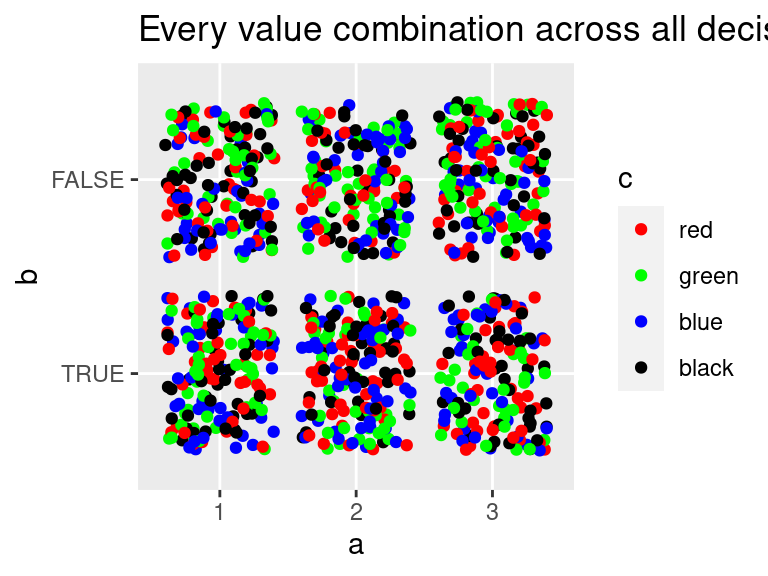
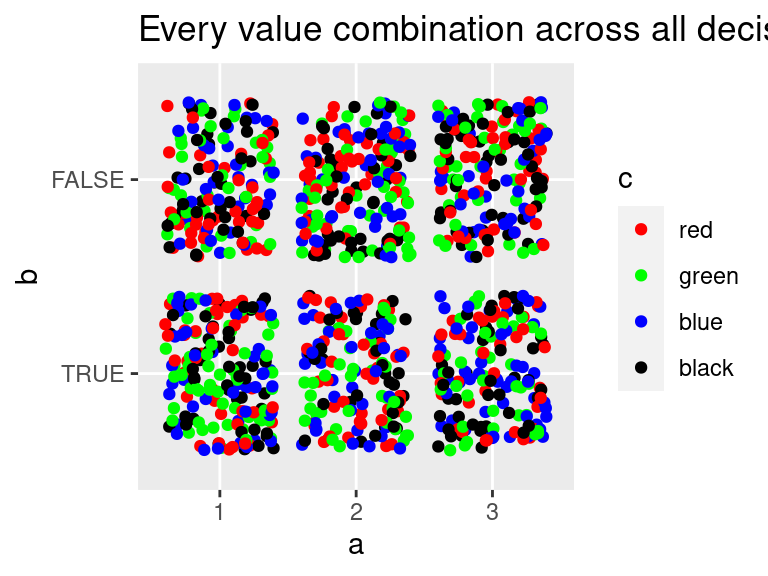
orig theme

Changed region(s): [[0.1875, 0.1562, 0.7188, 0.4688], [0.1875, 0.5, 0.7188, 0.8125]]

diff --git a/content/post/2020-12-18-latin-hypercube-sampling/index.en.html b/content/post/2020-12-18-latin-hypercube-sampling/index.en.html
@@ -55,19 +55,19 @@ names(sample) &lt;- c(&quot;a&quot;, &quot;b&quot;, &quot;c&quot;)
 
 # Uniform random values between 0 and 1
 sample</code></pre>
-<pre><code>##             a          b           c
-## 1  0.86297590 0.87166601 0.642949621
-## 2  0.12298899 0.29223853 0.946490815
-## 3  0.81953516 0.07972020 0.808074911
-## 4  0.31481227 0.36758653 0.143129972
-## 5  0.69663023 0.95135132 0.914242175
-## 6  0.36300372 0.61560262 0.235146709
-## 7  0.20291468 0.50893168 0.000381986
-## 8  0.06833569 0.49722671 0.284080700
-## 9  0.97519387 0.23553237 0.350345747
-## 10 0.50854503 0.76592850 0.716968703
-## 11 0.66236088 0.72236013 0.516816164
-## 12 0.46105454 0.09684975 0.497709581</code></pre>
+<pre><code>##             a          b          c
+## 1  0.10331937 0.17904637 0.82209855
+## 2  0.58040248 0.83355306 0.74218255
+## 3  0.28619448 0.15851395 0.63392241
+## 4  0.80467781 0.37354263 0.25101705
+## 5  0.65394205 0.63291243 0.94354267
+## 6  0.07270466 0.93913988 0.13931185
+## 7  0.85939458 0.71683071 0.54596375
+## 8  0.68205002 0.52081000 0.44389454
+## 9  0.35330623 0.83214237 0.01185228
+## 10 0.99309796 0.29330395 0.23475223
+## 11 0.20930087 0.49215909 0.86167296
+## 12 0.46745324 0.02074575 0.36959481</code></pre>
 <p>Next we map the 0-1 distributions onto the real distributions of a, b and c. For instance, c has four possible values so the distribution should be 1-4. We also convert the values to factors in order to label them properly.</p>
 <pre class="r"><code># Random choices for each decision with distributions based on a, b and c
 choices &lt;- map2(sample, all_decisions,
@@ -78,18 +78,18 @@ choices</code></pre>
 <pre><code>## # A tibble: 12 x 3
 ##    a     b     c    
 ##    &lt;fct&gt; &lt;fct&gt; &lt;fct&gt;
-##  1 3     FALSE blue 
-##  2 1     TRUE  black
-##  3 3     TRUE  black
-##  4 1     TRUE  red  
-##  5 3     FALSE black
+##  1 1     TRUE  black
+##  2 2     FALSE black
+##  3 1     TRUE  blue 
+##  4 3     TRUE  green
+##  5 2     FALSE black
 ##  6 1     FALSE red  
-##  7 1     TRUE  red  
-##  8 1     TRUE  green
-##  9 3     TRUE  green
-## 10 2     FALSE black
-## 11 2     FALSE blue 
-## 12 2     TRUE  blue</code></pre>
+##  7 3     FALSE blue 
+##  8 2     FALSE green
+##  9 1     FALSE red  
+## 10 3     TRUE  red  
+## 11 1     FALSE black
+## 12 2     TRUE  green</code></pre>
 <p>For convenience we can bring this into a single function like so.</p>
 <pre class="r"><code>lhs_sample &lt;- function(decisions, n){
   stopifnot(is.list(decisions))
@@ -104,18 +104,18 @@ choices</code></pre>
 
 lhs_sample(list(cars = rownames(mtcars), species = unique(iris$Species), letter = LETTERS[24:26]), n = 10)</code></pre>
 <pre><code>## # A tibble: 10 x 3
-##    cars              species    letter
-##    &lt;fct&gt;             &lt;fct&gt;      &lt;fct&gt; 
-##  1 Fiat X1-9         setosa     Z     
-##  2 Merc 450SL        setosa     Z     
-##  3 Chrysler Imperial versicolor X     
-##  4 Merc 240D         virginica  Y     
-##  5 Volvo 142E        versicolor Y     
-##  6 Hornet Sportabout virginica  X     
-##  7 Camaro Z28        virginica  Y     
-##  8 Mazda RX4         virginica  Z     
-##  9 Toyota Corolla    versicolor X     
-## 10 Ferrari Dino      setosa     X</code></pre>
+##    cars         species    letter
+##    &lt;fct&gt;        &lt;fct&gt;      &lt;fct&gt; 
+##  1 Camaro Z28   setosa     Y     
+##  2 Honda Civic  virginica  Z     
+##  3 Datsun 710   versicolor X     
+##  4 Merc 240D    virginica  Y     
+##  5 Merc 450SLC  virginica  Y     
+##  6 Volvo 142E   versicolor X     
+##  7 Lotus Europa virginica  Z     
+##  8 Merc 280C    setosa     Z     
+##  9 Fiat 128     setosa     X     
+## 10 Mazda RX4    setosa     Z</code></pre>
 </div>
 <div id="testing-coverage" class="section level2">
 <h2>Testing coverage</h2>
